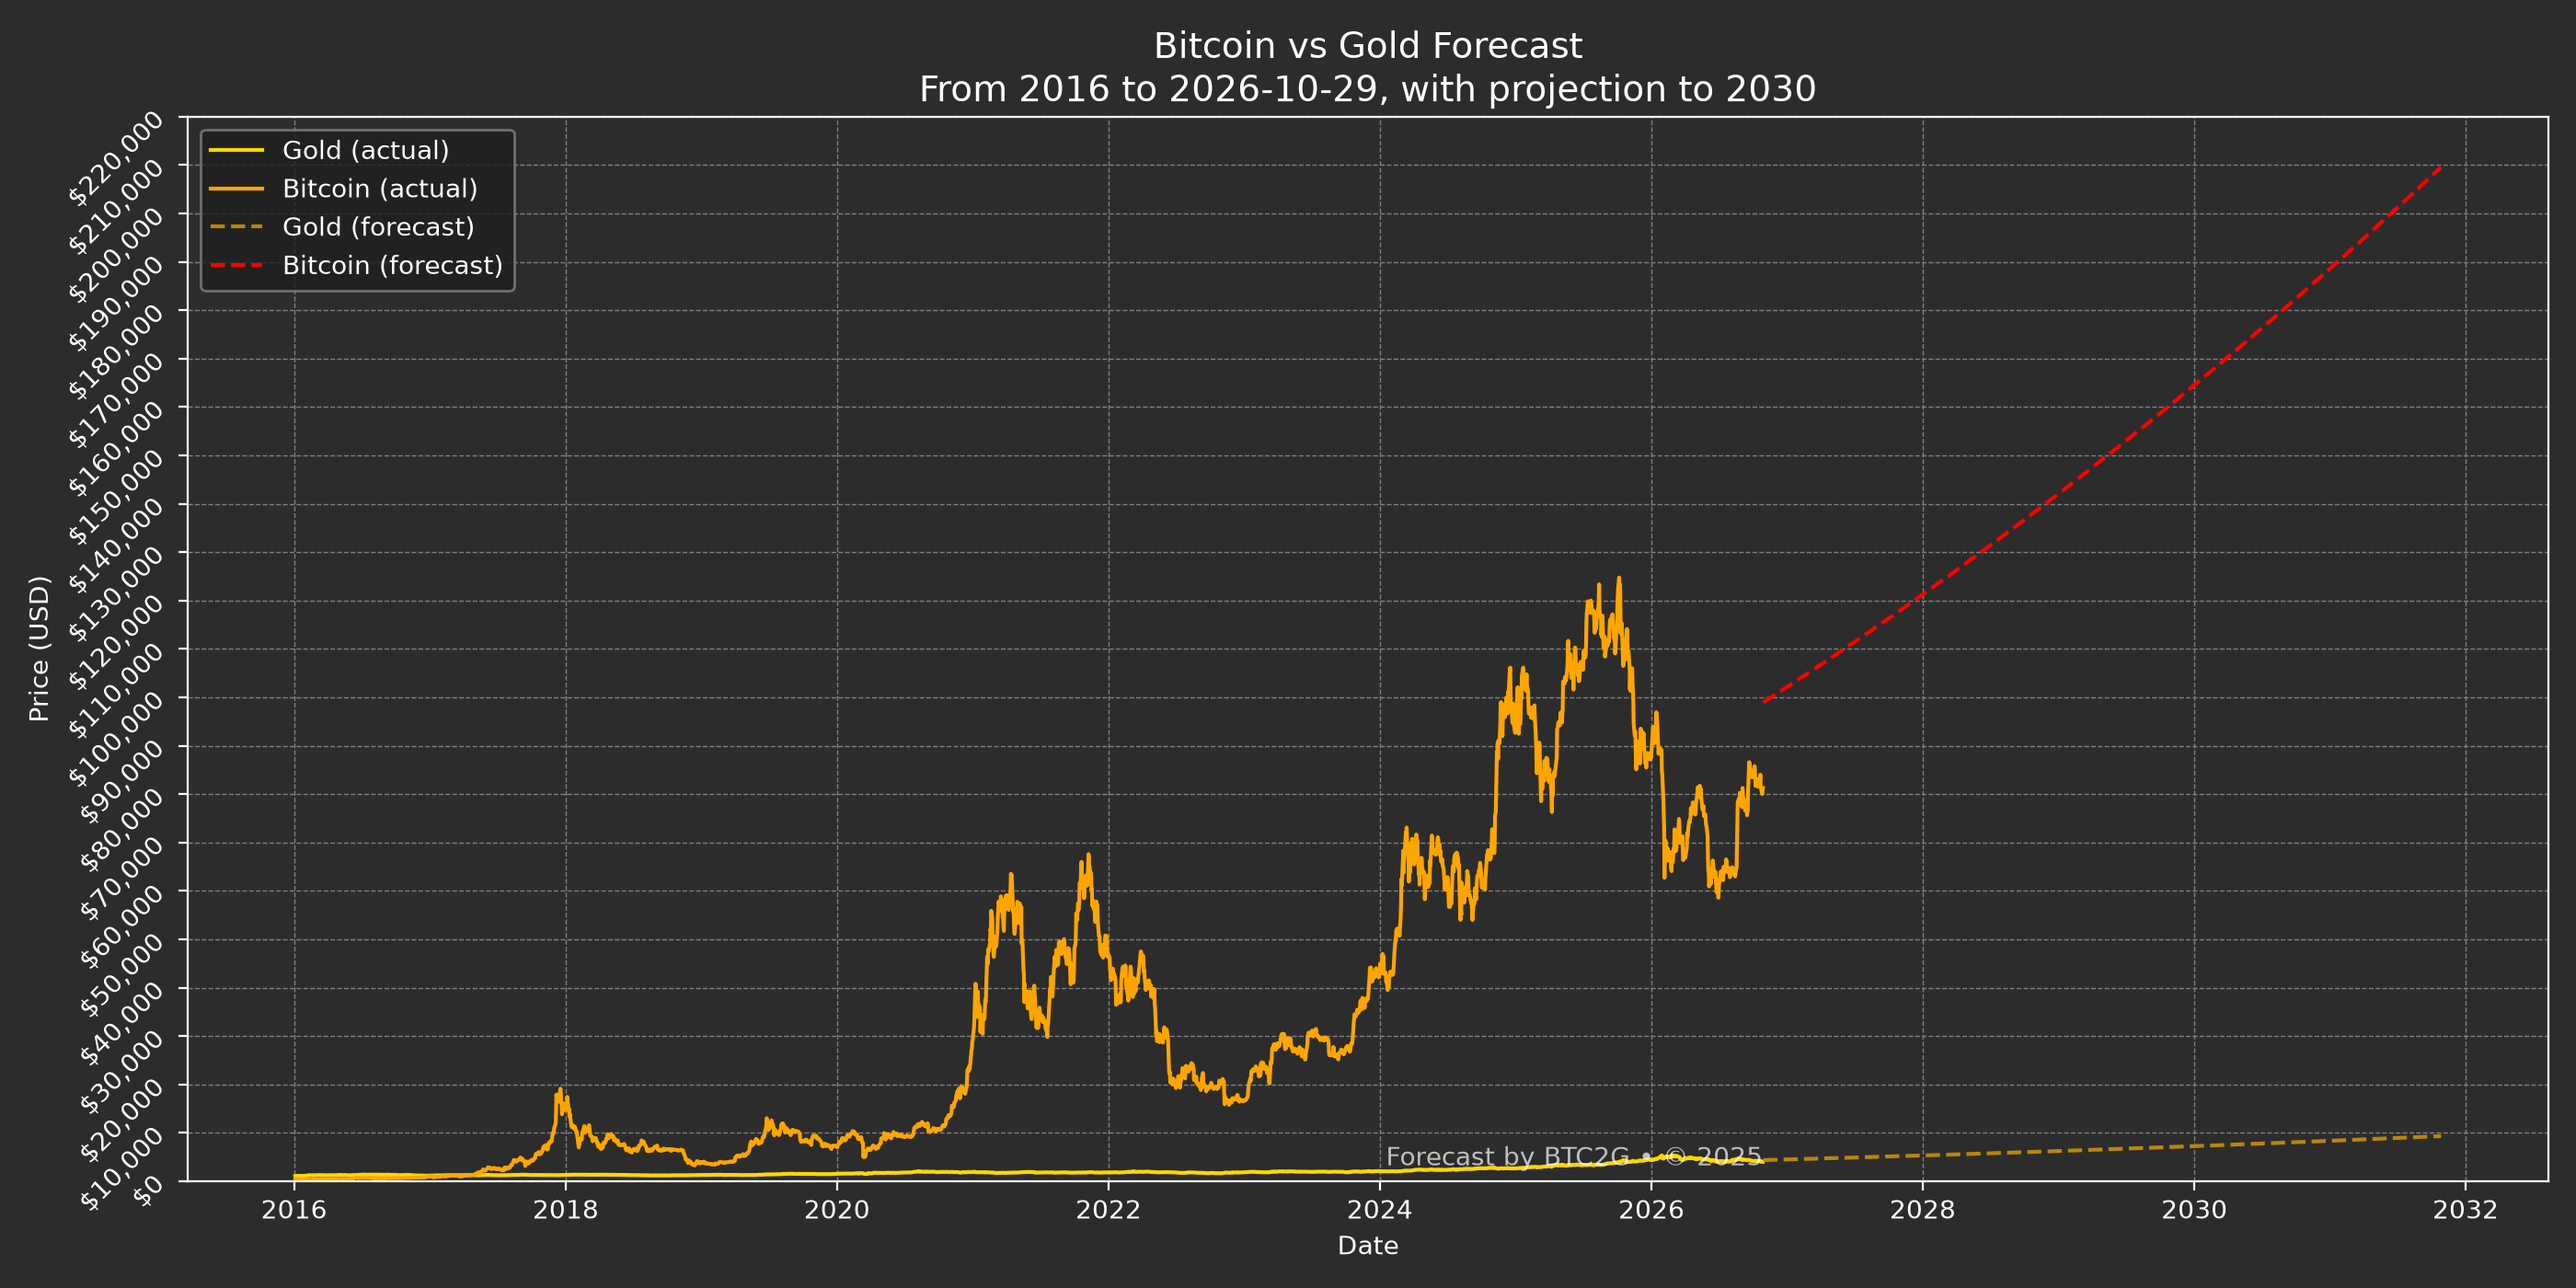
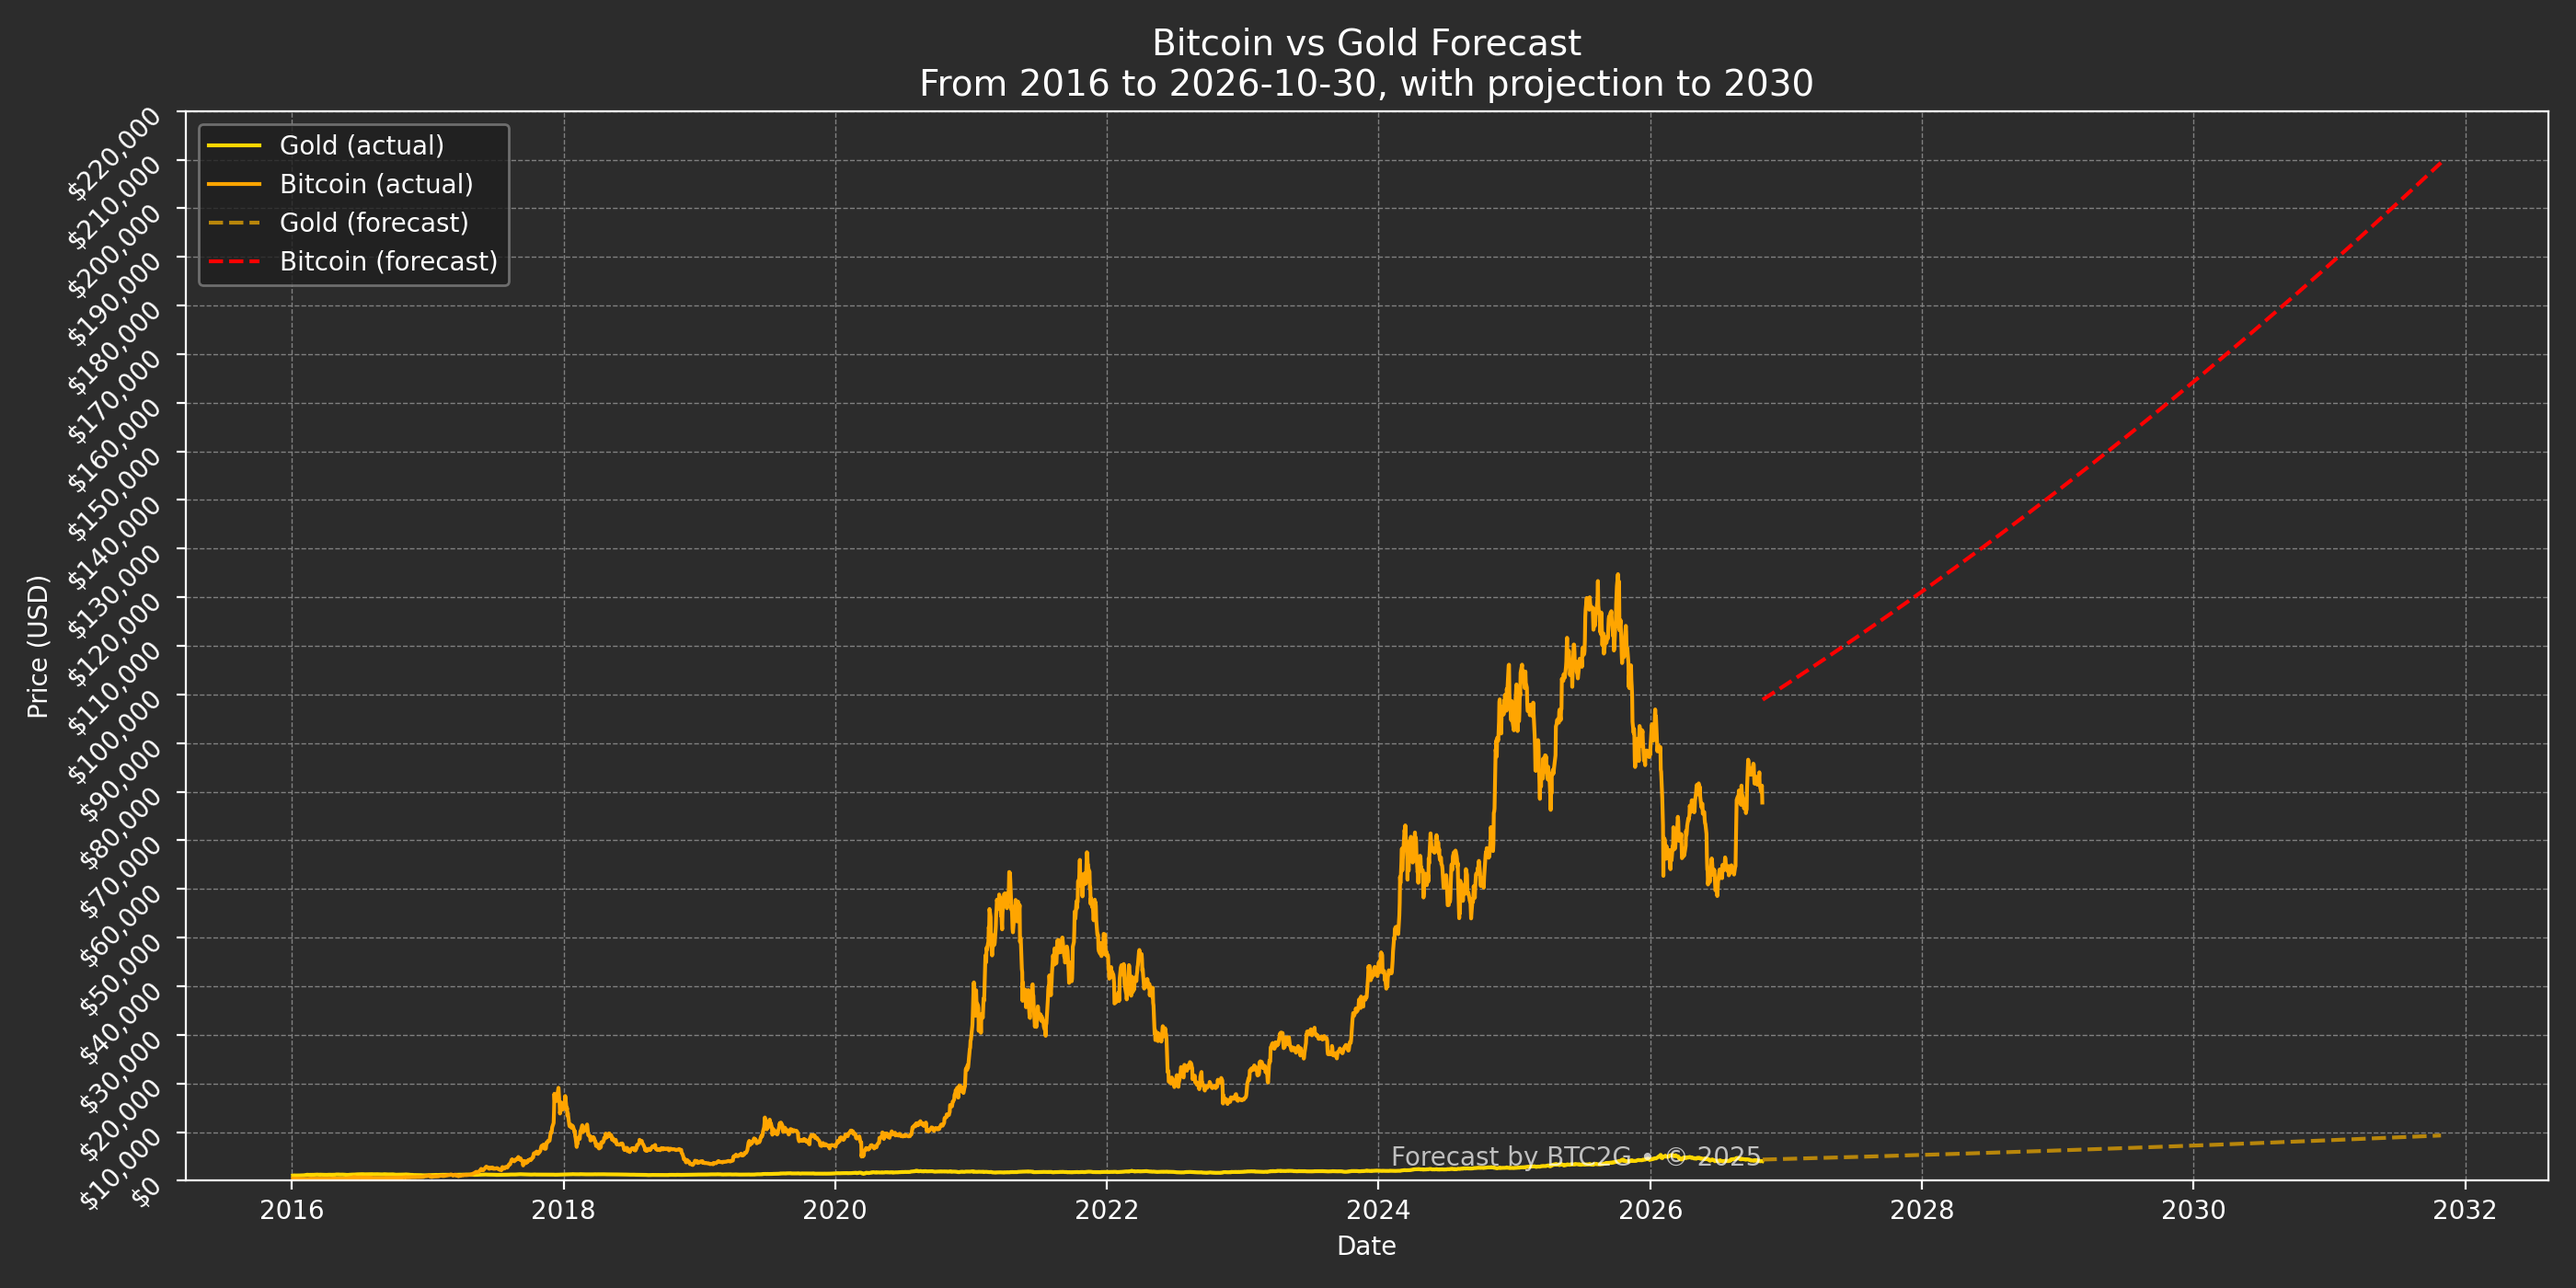
Make daily market refresh retryable and report source failures

diff --git a/tests/test_ratio.py b/tests/test_ratio.py
@@ -1,11 +1,12 @@
 import json
 import unittest
+from datetime import datetime, timezone
 from unittest.mock import patch
 
 import numpy as np
 import pandas as pd
 
-from scripts.update_btc_gold_chart import build_chart, build_history, build_signal
+from scripts.update_btc_gold_chart import build_chart, build_history, build_signal, main, validate_market_date
 
 
 class RatioTests(unittest.TestCase):
@@ -79,6 +80,28 @@ class RatioTests(unittest.TestCase):
             with self.assertRaises(RuntimeError):
                 build_chart()
             save_chart.assert_not_called()
+
+    def test_market_freshness_allows_weekend_but_rejects_stale_or_future_quotes(self):
+        with patch("scripts.update_btc_gold_chart.utc_today", return_value=datetime(2026, 10, 30, tzinfo=timezone.utc)):
+            for date, accepted in (("2026-10-29", True), ("2026-10-26", True),
+                                   ("2026-10-25", False), ("2026-10-31", False)):
+                with self.subTest(date=date):
+                    prices = pd.DataFrame({"Gold": [2500], "Bitcoin": [100000]}, index=pd.to_datetime([date]))
+                    if accepted:
+                        validate_market_date(prices)
+                    else:
+                        with self.assertRaisesRegex(RuntimeError, "stale"):
+                            validate_market_date(prices)
+
+    def test_download_failure_is_reported_even_when_previous_chart_exists(self):
+        with patch("scripts.update_btc_gold_chart.build_chart", side_effect=RuntimeError("source unavailable")), \
+             patch("scripts.update_btc_gold_chart.CHART_PATH") as chart, \
+             patch("scripts.update_btc_gold_chart.SIGNAL_PATH") as signal:
+            chart.exists.return_value = True
+            signal.exists.return_value = True
+            self.assertEqual(main(), 1)
+            chart.write_text.assert_not_called()
+            signal.write_text.assert_not_called()
 
 
 if __name__ == "__main__":

diff --git a/scripts/update_btc_gold_chart.py b/scripts/update_btc_gold_chart.py
@@ -67,6 +67,14 @@ def date_to_num(dates) -> np.ndarray:
     return np.array([date.to_pydatetime().date().toordinal() for date in dates])
 
 
+def validate_market_date(df: pd.DataFrame) -> None:
+    """Allow weekends/short holiday closures, but never silently publish stale data."""
+    market_date = df.index.max().date()
+    age = (utc_today().date() - market_date).days
+    if age < 0 or age > 4:
+        raise RuntimeError(f"Latest common market date {market_date} is invalid or stale ({age} days).")
+
+
 def forecast_polyfit(dates, prices, future_days: int, degree: int = 2):
     x = date_to_num(dates)
     y = prices.values.astype(float)
@@ -183,6 +191,7 @@ def build_chart() -> None:
     df.columns = ["Gold", "Bitcoin"]
     if df.empty:
         raise RuntimeError("Combined BTC/Gold dataset is empty.")
+    validate_market_date(df)
     signal = build_signal(df)
     history = build_history(df)
 
@@ -244,6 +253,8 @@ def build_chart() -> None:
             {
                 "last_updated_utc": utc_today().isoformat(),
                 "status": "ok",
+                "market_date": signal["last_updated"],
+                "price_basis": "Latest completed daily close shared by BTC and gold; no forward-filled quotes",
                 "source": "yfinance",
                 "tickers": TICKERS,
                 "chart": str(CHART_PATH.relative_to(REPO_ROOT)).replace("\\", "/"),
@@ -270,7 +281,6 @@ def main() -> int:
             print(f"Keeping existing chart: {CHART_PATH}", file=sys.stderr)
             if SIGNAL_PATH.exists():
                 print(f"Keeping existing signal: {SIGNAL_PATH}", file=sys.stderr)
-            return 0
         return 1
 
 
